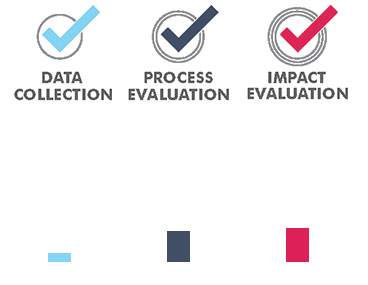
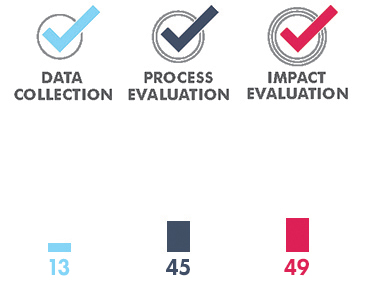
Link changes and ME docs graph numbers

diff --git a/index.html b/index.html
@@ -91,7 +91,7 @@
 						<p>The <strong>CHMI approach combines information provision, analysis, research, connections and ‘learning’ activities</strong> that promote the improvement and adaptation of promising programs, policies and practices that show promise in providing better and more affordable care to the poor.</p>
 						<p>This year, as we celebrate our five year anniversary, we wanted to share highlights of what we have accomplished, what we have learned through the years, and where we hope to go next.</p>
 						<br />
-						<h4 class="subheadW">Imroved access to information on the universe of health innovations</h4>
+						<h4 class="subheadW">Improved access to information on the universe of health innovations</h4>
 						<p>After five years of intensive landscaping we have profiled more than 1,450 health programs, policies and practices from over 130 countries, making the CHMI database the most comprehensive global online repository of information on health innovations. Our online database has been used over 1 million times, with over half of the visits coming from low- and middle-income countries (LMICs). Today, the database has been used in a variety of different ways – to identify programs for funding, to understand the landscape of programmatic options by governments, to connect with like-minded innovators, to spot new trends and promising practices, and as a research tool cited in over 120 publications.</p>
 						<h4 class="subheadW">Increased the evidence base to promote learning and collaboration in health innovation</h4>
 						<p>One of the most critical gaps we have sought to address through CHMI is the lack of systematic evidence on health markets and the individual programs operating within them. We have made several investments to increase our understanding about which programs are showing promising results, as well as what implementation challenges programs face. The CHMI <a href="http://healthmarketinnovations.org/about/reported-results">Reported Results</a> initiative and <a href="http://healthmarketinnovations.org/about/CHMIPlus">CHMI PLUS</a> encourage hundreds of organizations to share their results and impact through CHMI. Increasing transparency about programmatic results promotes an environment of learning and collaboration across our network of innovators. The more programs share, the more CHMI and others can engage with them with targeted support such as evaluation and learning services.</p><br /><p>In addition, the CHMI database provides a rich source of data to better understand developments in the growth and diffusion of specific types of business models – e.g., models that improve maternal and child health or increase access to primary care. Today, the CHMI database has been used to develop nearly 40 unique research and analytic products from the CHMI team and our collaborators – ranging from our <a href="C:\Users\lgoodman\Downloads\healthmarketinnovations.org\Highlights">annual Highlights Reports</a> providing an overview of trends in health innovation, to our partnership with the Global Impact Investing Network to develop standardized <a href="http://healthmarketinnovations.org/content/health-metrics">health metrics</a> for innovators, to our in-depth research on the role of <a href="http://healthmarketinnovations.org/sites/default/files/IP%20Study_Summary%20for%20HSR_10%2010%2010.pdf">Informal Providers in Mixed Health Systems</a>.</p>
